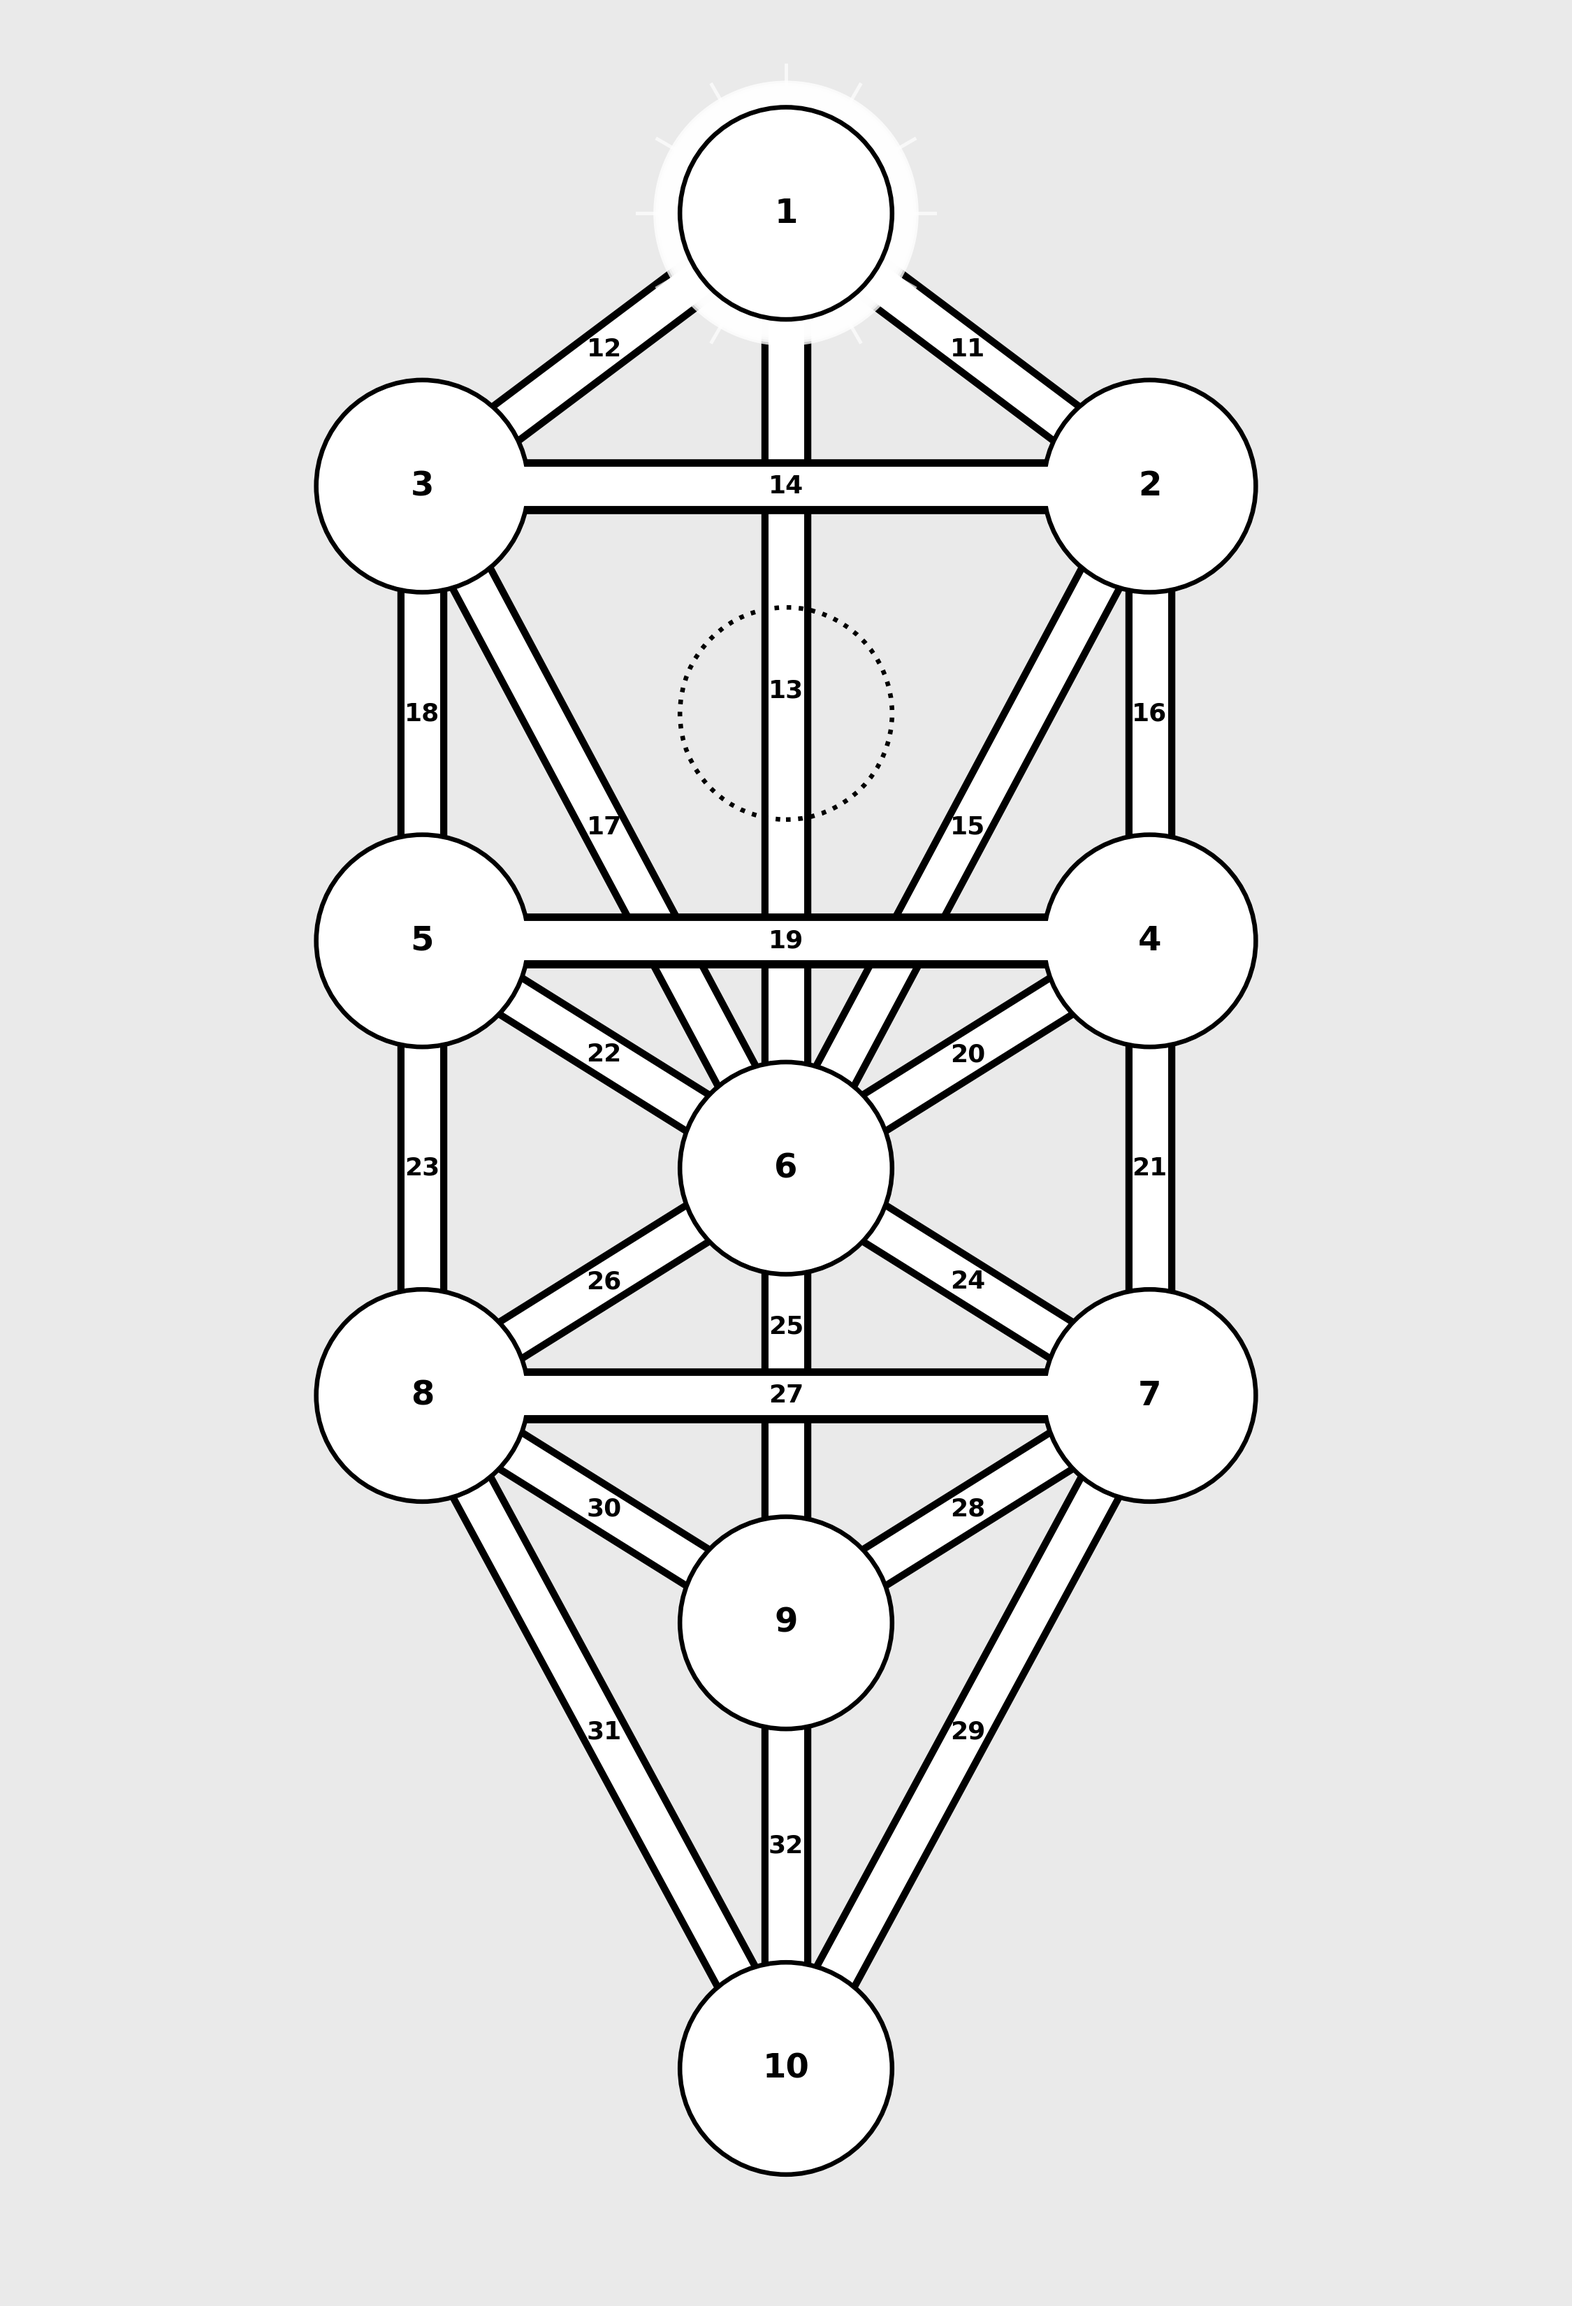
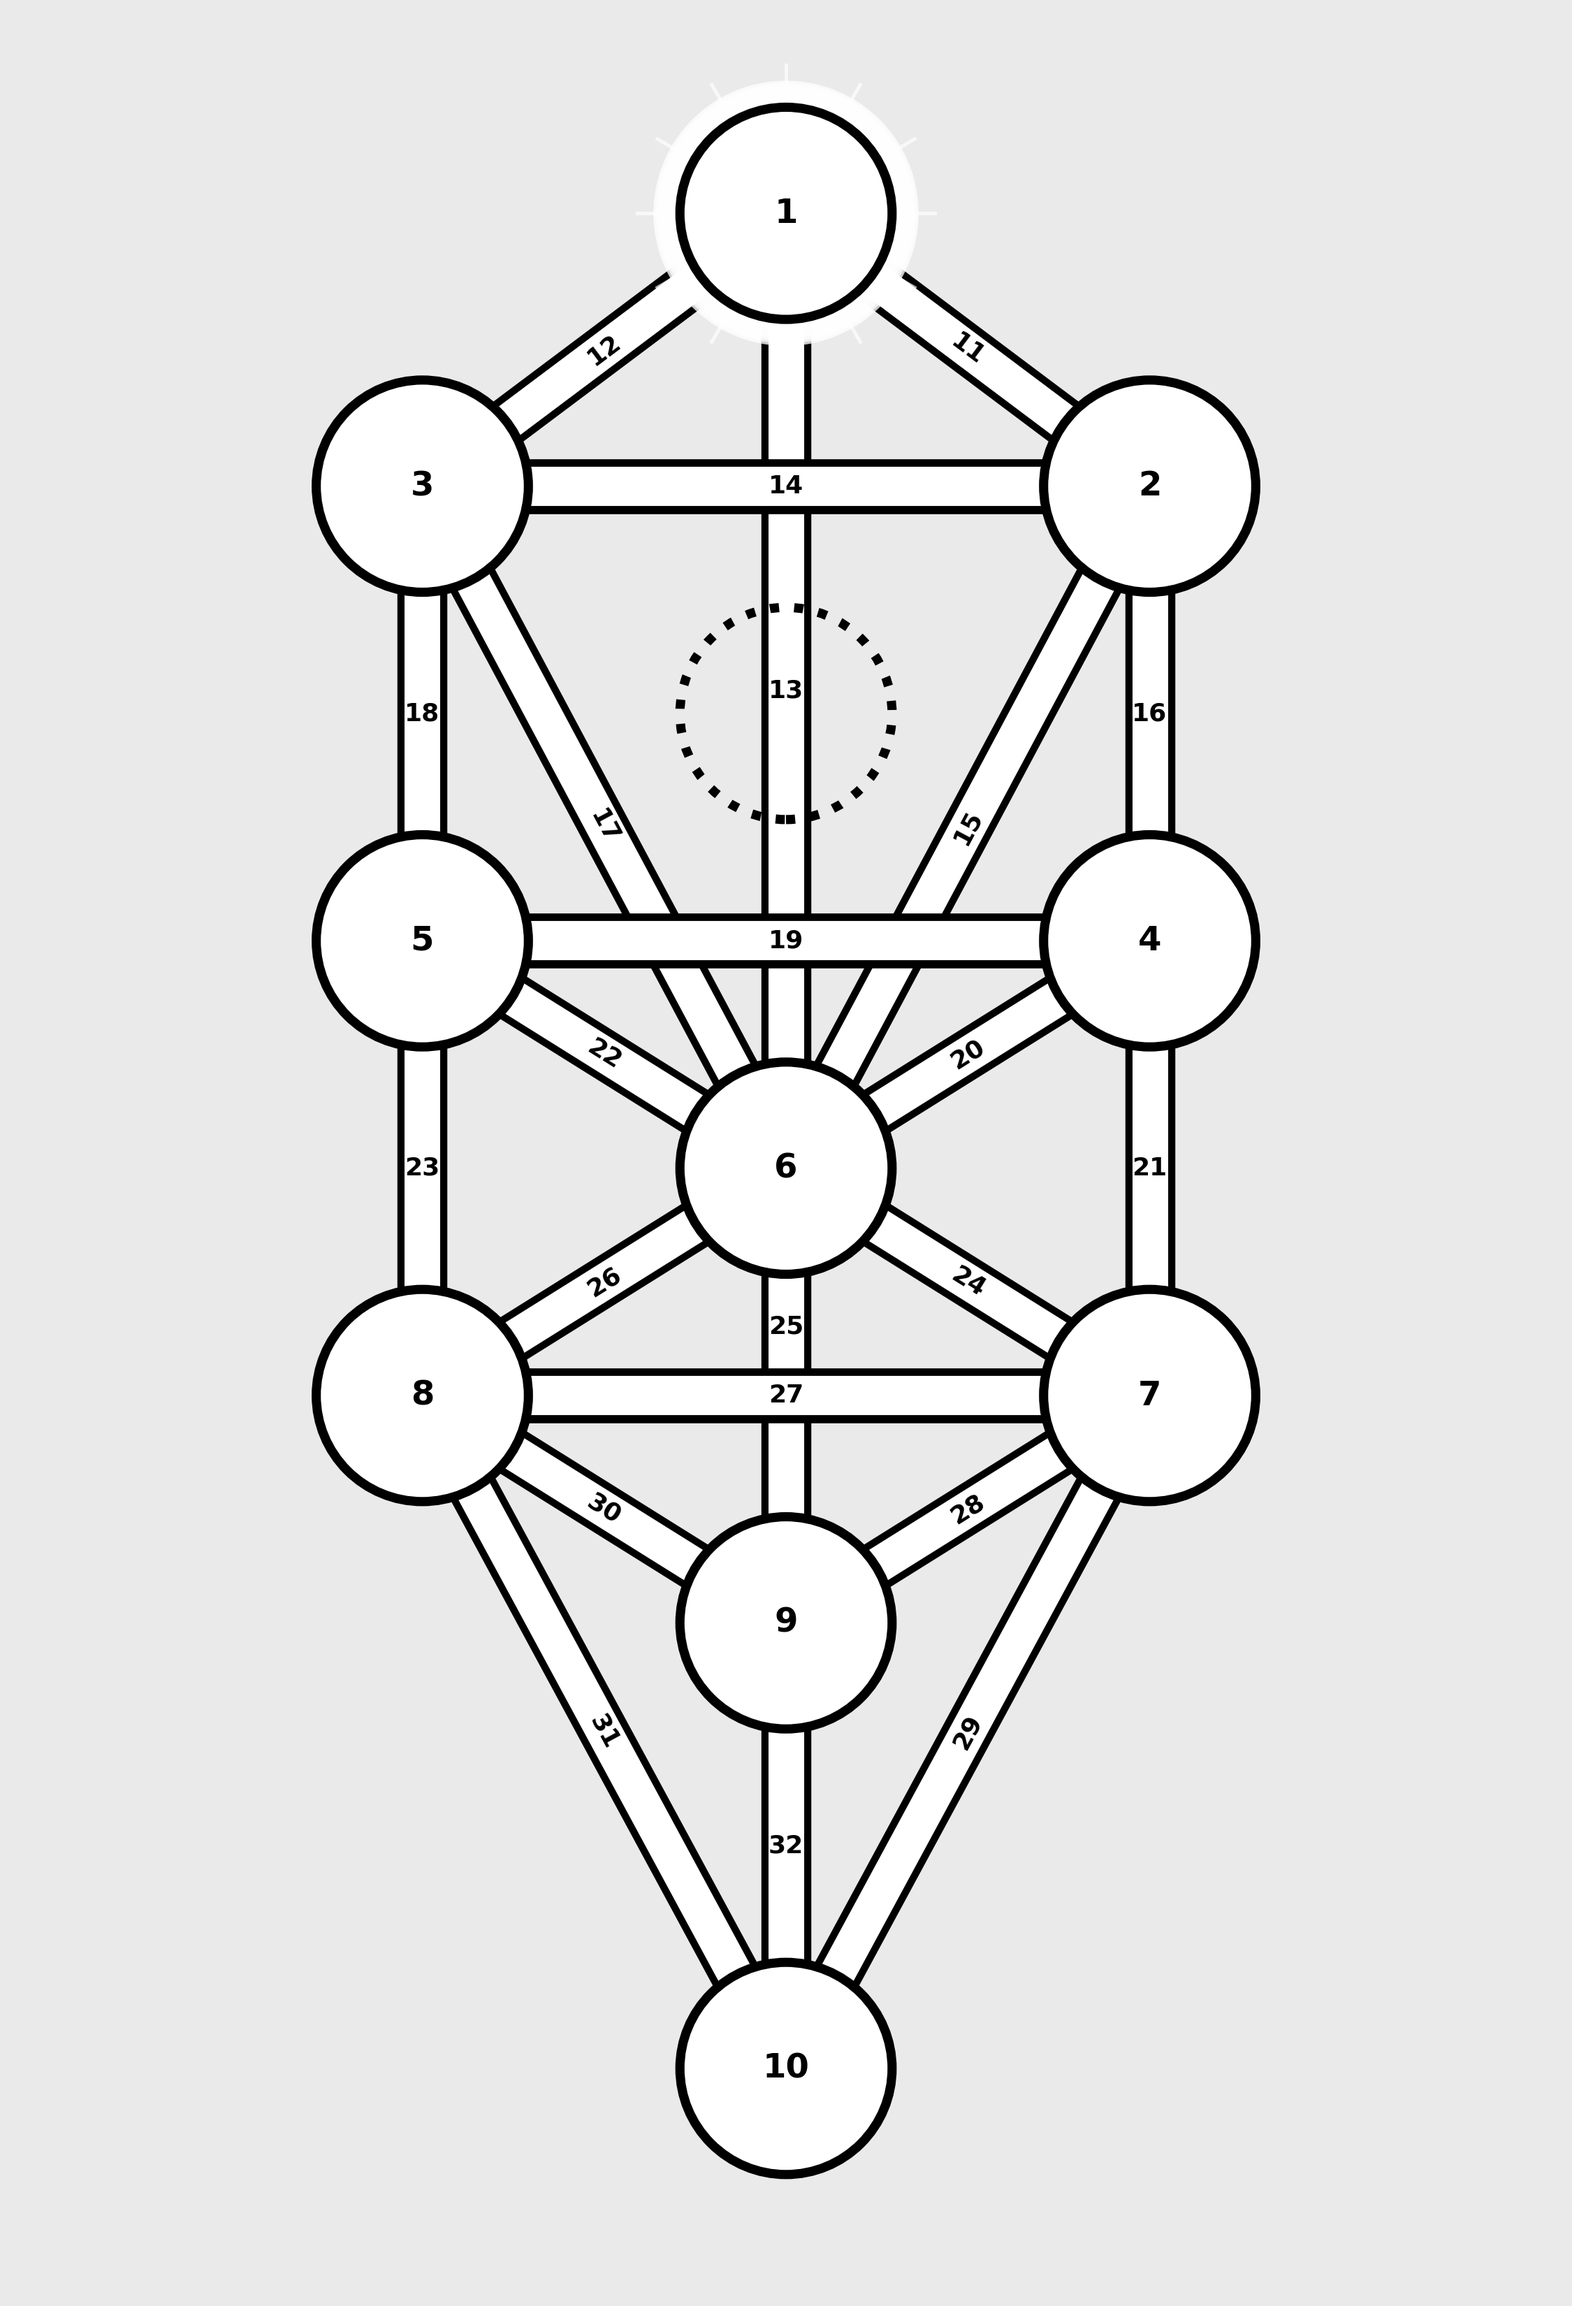
feat: improve Tree of Life diagram with rotated path numbers and thicker borders

diff --git a/new_tree.py b/new_tree.py
@@ -140,8 +140,9 @@ def draw_tree_of_life(output_filename: str = None) -> None:
     line_width_inner: float = 10.0 * (sphere_scale_factor * 0.7)
     circle_edge_color: str = 'black'
     circle_face_color: str = 'white'
-    circle_line_width: float = 1.5 * \
-        (sphere_scale_factor * 0.6)  # Adjusted for visual balance
+    # Increase the border thickness by changing the multiplier from 1.5 to 3.0
+    circle_line_width: float = 3.0 * \
+        (sphere_scale_factor * 0.6)  # Increased for thicker sephiroth borders
     zorder_paths_outer: int = 1  # Draw black lines first
     zorder_paths_inner: int = 2  # Draw white lines on top
     zorder_circles: int = 3     # Draw circles on top of lines
@@ -161,11 +162,17 @@ def draw_tree_of_life(output_filename: str = None) -> None:
 
     # Create lists of paths that should appear underneath or on top
     paths_underneath = [path13_idx, path15_idx, path17_idx, path25_idx]
-    paths_on_top = [path14_idx, path19_idx, path27_idx]
+
+    # All horizontal paths should be handled the same way:
+    # Above paths they cross but below sephirot they connect
+    paths_special = [path14_idx, path19_idx, path27_idx]
+
+    # No paths are on top of everything now
+    paths_on_top = []
 
     # Draw all regular paths (those not in special lists)
     for idx, (i, j) in enumerate(paths_from_image):
-        if idx not in paths_underneath and idx not in paths_on_top:
+        if idx not in paths_underneath and idx not in paths_on_top and idx not in paths_special:
             x1, y1 = sephirot_coords[i]
             x2, y2 = sephirot_coords[j]
 
@@ -202,7 +209,26 @@ def draw_tree_of_life(output_filename: str = None) -> None:
                 solid_capstyle='round',
                 zorder=zorder_paths_inner - 1)  # Lower zorder for the inner line
 
-    # Draw paths that should appear on top
+    # Draw special paths - above other paths they cross but below sephirot
+    for path_idx in paths_special:
+        i, j = paths_from_image[path_idx]
+        x1, y1 = sephirot_coords[i]
+        x2, y2 = sephirot_coords[j]
+
+        # Draw path with higher zorder than paths it crosses but lower than sephirot circles
+        ax.plot([x1, x2], [y1, y2],
+                color=line_color_outer,
+                linewidth=line_width_outer * 1.1,  # Slightly thicker for emphasis
+                solid_capstyle='round',
+                zorder=zorder_paths_outer + 1)  # Higher than other paths but lower than circles
+
+        ax.plot([x1, x2], [y1, y2],
+                color=line_color_inner,
+                linewidth=line_width_inner * 1.1,  # Slightly thicker for emphasis
+                solid_capstyle='round',
+                zorder=zorder_paths_inner + 1)  # Higher than other paths but lower than circles
+
+    # Draw paths that should appear on top of everything (none now)
     for path_idx in paths_on_top:
         i, j = paths_from_image[path_idx]
         x1, y1 = sephirot_coords[i]
@@ -226,6 +252,17 @@ def draw_tree_of_life(output_filename: str = None) -> None:
     # Create a list of numbers from 11 to 32
     path_numbers = list(range(11, 33))
 
+    # Define paths that need special orientation fixes (paths appearing upside down)
+    # The indices are 0-based in the paths_from_image list
+    paths_needing_orientation_fix = [
+        1,   # Path 12: Kether to Binah
+        4,   # Path 15: Chokmah to Tiphereth
+        9,   # Path 20: Chesed to Tiphereth
+        15,  # Path 26: Tiphereth to Hod
+        17,  # Path 28: Netzach to Yesod
+        18   # Path 29: Netzach to Malkuth
+    ]
+
     # Add path numbers to each path
     for idx, (i, j) in enumerate(paths_from_image):
         x1, y1 = sephirot_coords[i]
@@ -245,7 +282,34 @@ def draw_tree_of_life(output_filename: str = None) -> None:
             # Fine-tuned from 0.35 to raise it by an ultra tiny bit
             special_offset_y = 0.38 * spacing_factor  # Precise positioning adjustment
 
-        # Draw the path number - centered directly on the path with any special offsets
+        # Calculate the angle of the path for text rotation
+        angle_rad = np.arctan2(y2 - y1, x2 - x1)
+        angle_deg = np.degrees(angle_rad)
+
+        # Adjust angle for readability - text should be right-side up
+        # If angle is between 90 and 270 degrees, flip it 180 degrees
+        if 90 < angle_deg < 270:
+            angle_deg -= 180
+
+        # Force flip for specific paths that are rendering upside down despite the adjustment
+        if idx in paths_needing_orientation_fix:
+            angle_deg += 180
+
+        # For vertical paths (Middle Pillar), keep text horizontal
+        # within 5 degrees of vertical
+        is_vertical = abs(abs(angle_deg) - 90) < 5
+
+        # For horizontal paths (Path 14, 19, 27), keep text horizontal
+        is_horizontal = abs(angle_deg) < 5 or abs(
+            abs(angle_deg) - 180) < 5  # within 5 degrees of horizontal
+
+        # Set final rotation angle
+        if is_vertical or is_horizontal:
+            rotation = 0  # Keep horizontal for vertical and horizontal paths
+        else:
+            rotation = angle_deg  # Rotate text to match path angle
+
+        # Draw the path number with proper orientation
         ax.text(mid_x, mid_y + special_offset_y,
                 str(path_numbers[idx]),
                 # Slightly smaller than Sephiroth numbers
@@ -254,6 +318,9 @@ def draw_tree_of_life(output_filename: str = None) -> None:
                 ha='center',
                 va='center',
                 color='black',
+                # Set the rotation to match the path direction
+                rotation=rotation,
+                rotation_mode='anchor',  # Rotate around the anchor point
                 # No box around the path numbers
                 zorder=zorder_path_numbers)  # Make text appear above paths
 
